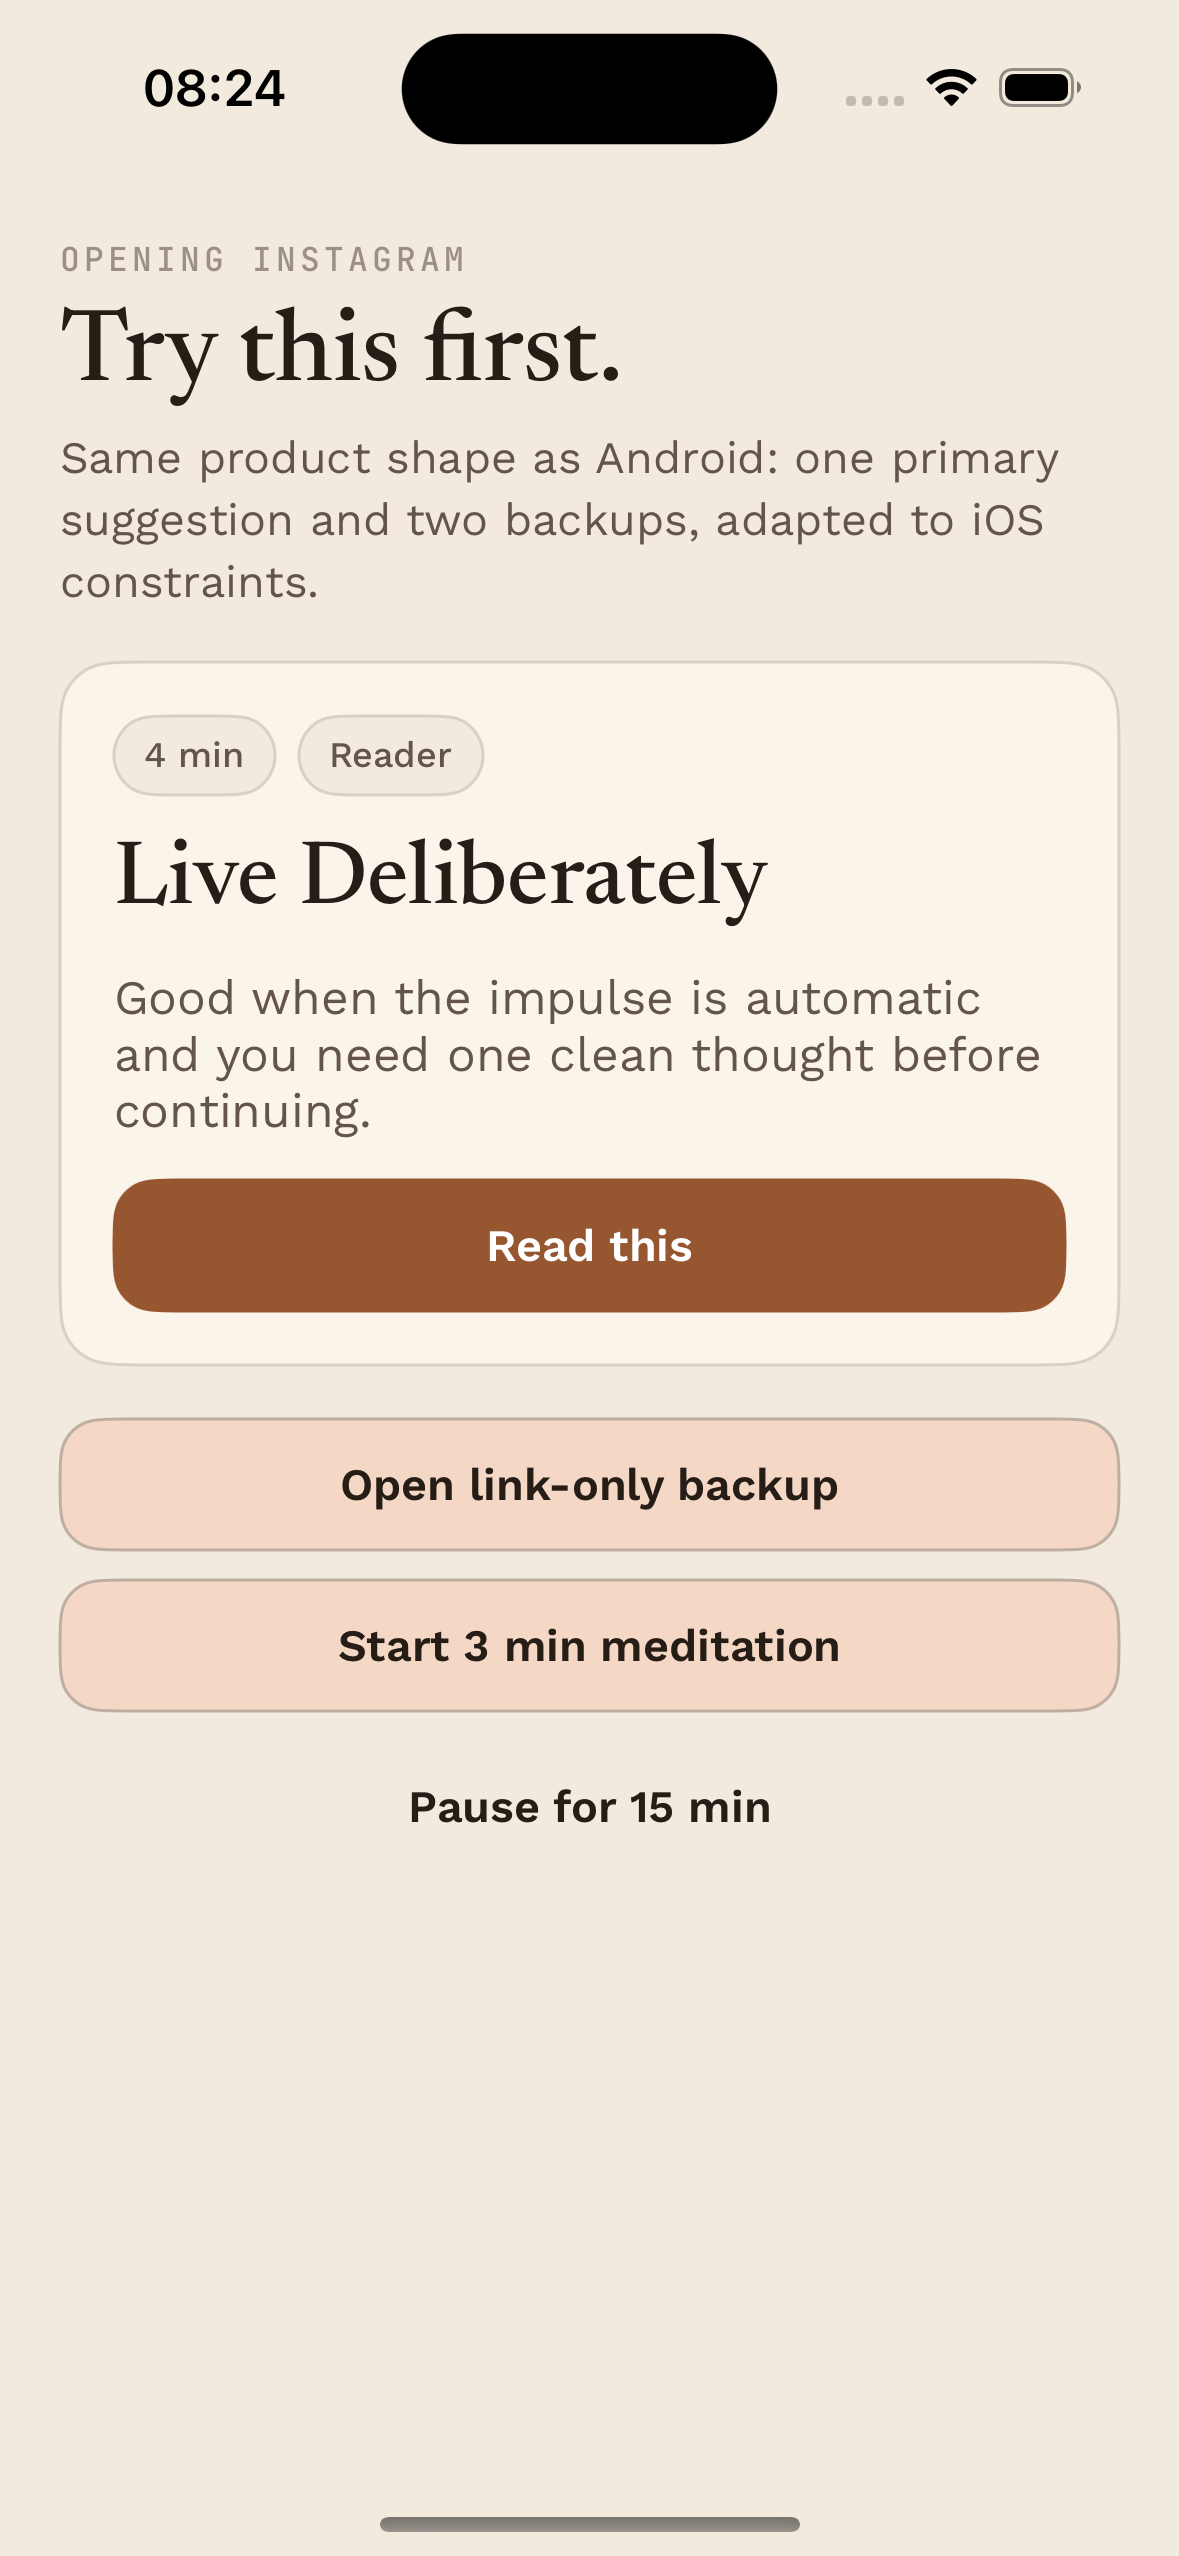
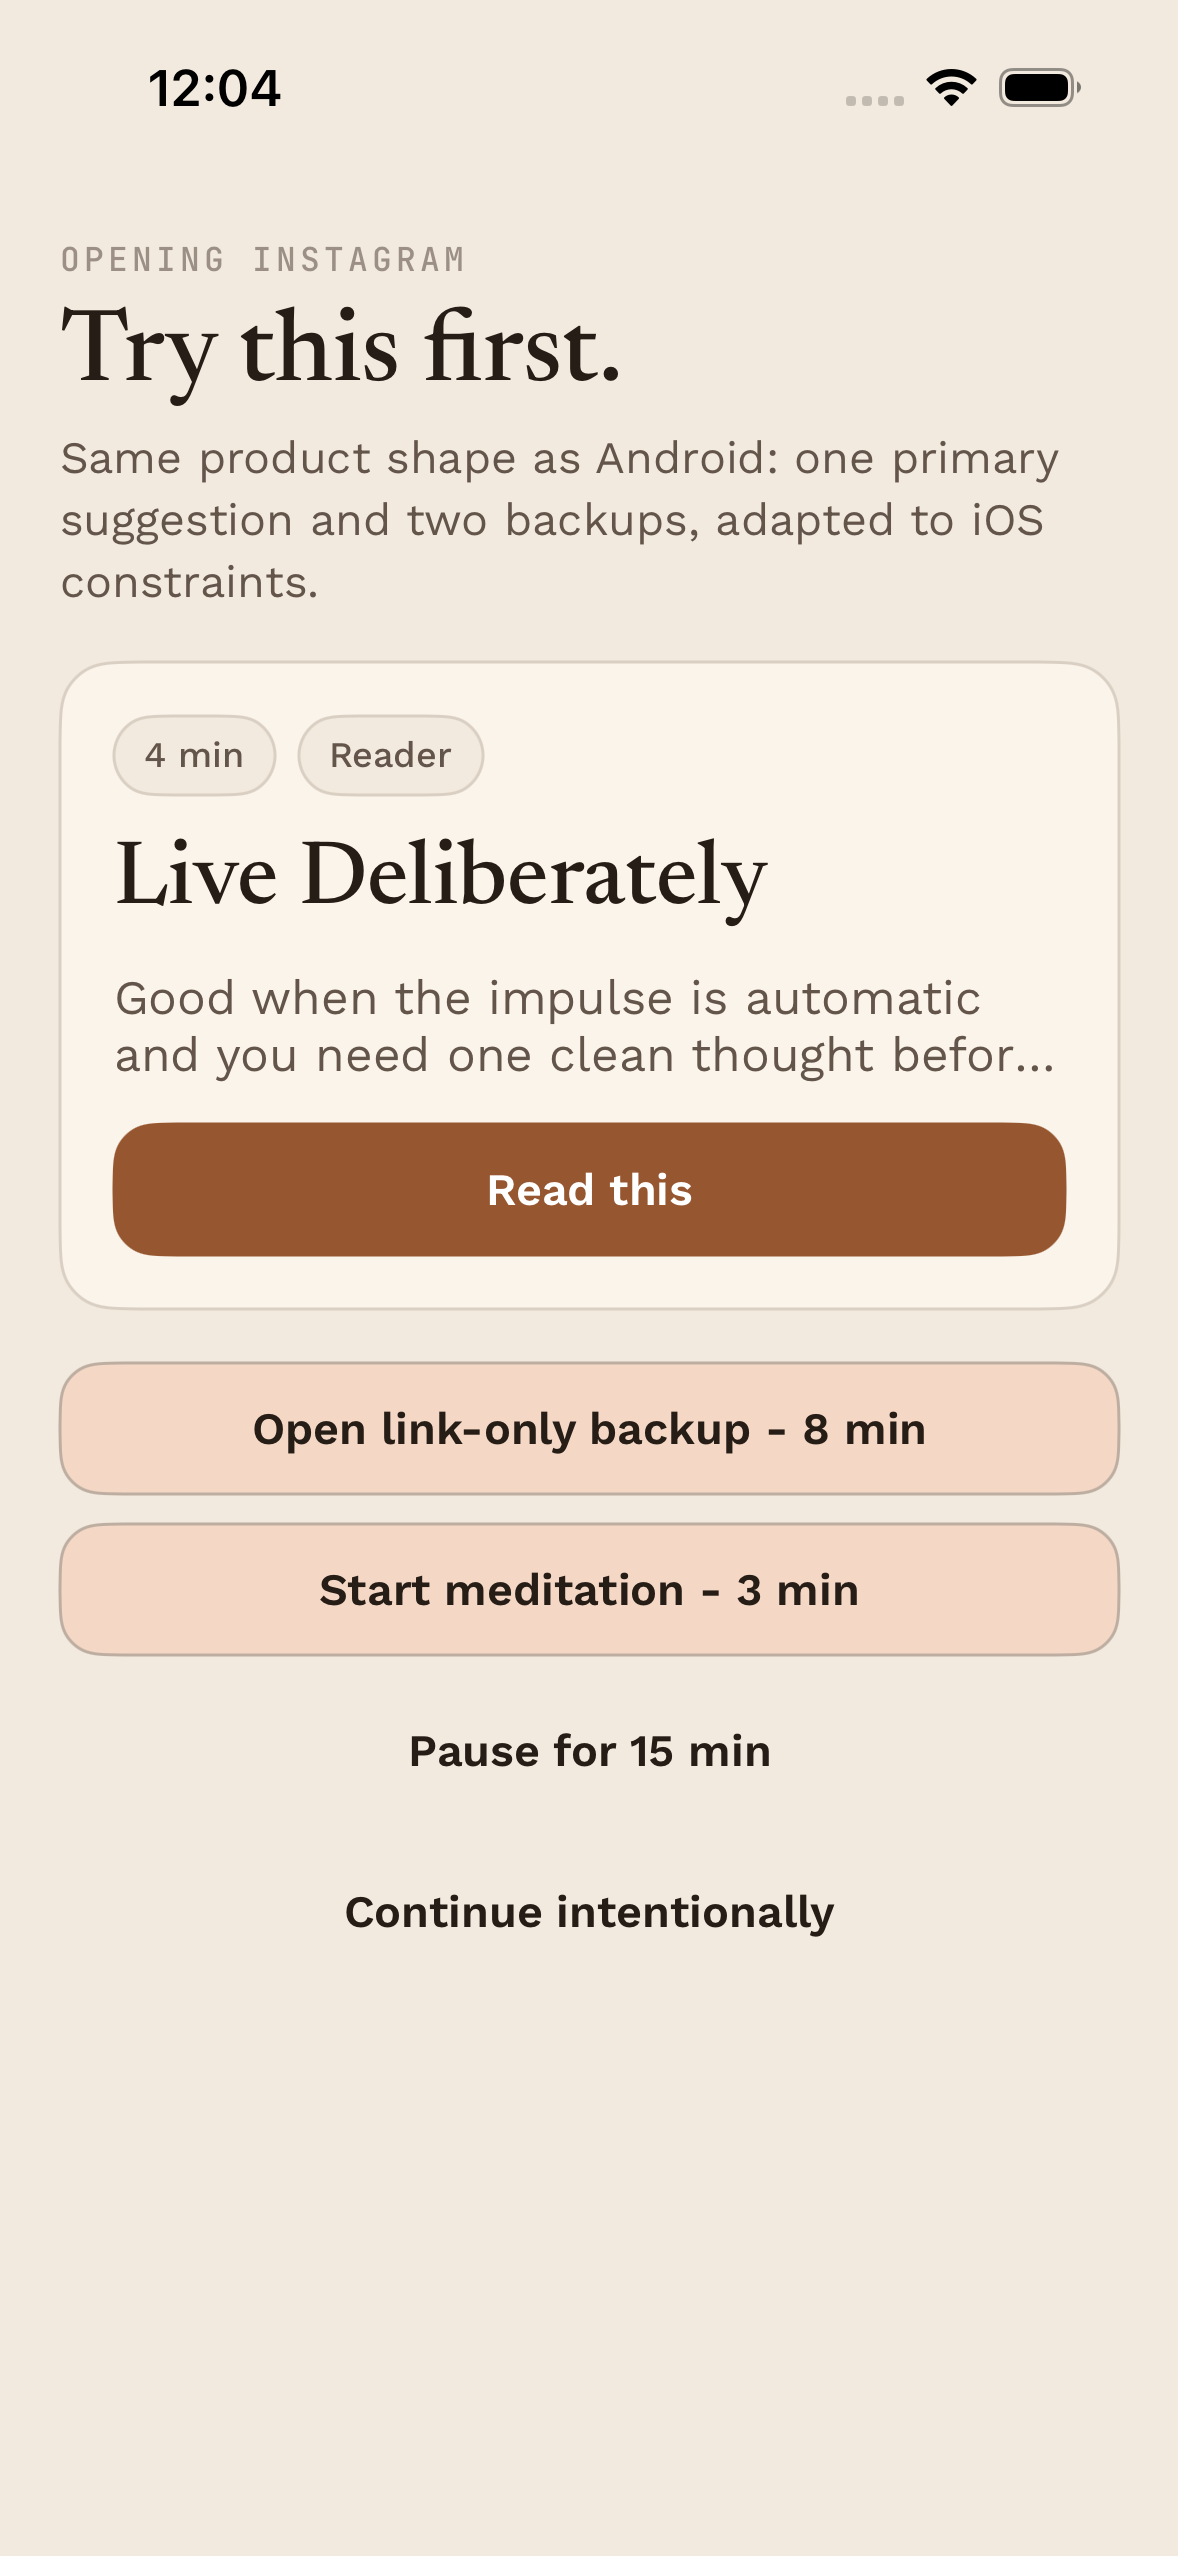
Address iOS slice 12.1 Pro review

diff --git a/ios/QualityAlternativeUITests/QualityAlternativeVisualQaTests.swift b/ios/QualityAlternativeUITests/QualityAlternativeVisualQaTests.swift
@@ -1,5 +1,6 @@
 import XCTest
 
+@MainActor
 final class QualityAlternativeVisualQaTests: XCTestCase {
     override func setUpWithError() throws {
         continueAfterFailure = false
@@ -8,18 +9,23 @@ final class QualityAlternativeVisualQaTests: XCTestCase {
     func testSlice12VisualParityScreens() throws {
         capture(route: "home", name: "01_home_light")
         capture(route: "library", name: "02_library_light")
-        capture(route: "intervention", name: "03_intervention_light")
+        capture(route: "intervention", name: "03_intervention_light", verifyInterventionActions: true)
         capture(route: "reader", name: "04_reader_light")
         capture(route: "handoff", name: "05_handoff_light")
         capture(route: "meditation", name: "06_meditation_light")
         capture(route: "progress", name: "07_progress_light")
         capture(route: "settings", name: "08_settings_light")
-        capture(route: "intervention", name: "09_intervention_dark", dark: true)
+        capture(route: "intervention", name: "09_intervention_dark", dark: true, verifyInterventionActions: true)
         capture(route: "reader", name: "10_reader_dark", dark: true)
         capture(route: "meditation", name: "11_meditation_dark", dark: true)
     }
 
-    private func capture(route: String, name: String, dark: Bool = false) {
+    private func capture(
+        route: String,
+        name: String,
+        dark: Bool = false,
+        verifyInterventionActions: Bool = false
+    ) {
         let app = XCUIApplication()
         app.launchArguments = ["--qa-route", route]
         if dark {
@@ -29,6 +35,9 @@ final class QualityAlternativeVisualQaTests: XCTestCase {
 
         let expectedScreen = route == "handoff" ? "handoff-screen" : "\(route)-screen"
         XCTAssertTrue(app.descendants(matching: .any)[expectedScreen].waitForExistence(timeout: 6))
+        if verifyInterventionActions {
+            assertInterventionActionSet(in: app)
+        }
 
         let attachment = XCTAttachment(screenshot: XCUIScreen.main.screenshot())
         attachment.name = name
@@ -36,5 +45,20 @@ final class QualityAlternativeVisualQaTests: XCTestCase {
         add(attachment)
 
         app.terminate()
+    }
+
+    private func assertInterventionActionSet(in app: XCUIApplication) {
+        XCTAssertTrue(app.buttons["Read this"].exists)
+        XCTAssertTrue(app.buttons["Open link-only backup - 8 min"].exists)
+        XCTAssertTrue(app.buttons["Start meditation - 3 min"].exists)
+        XCTAssertTrue(app.buttons["Pause for 15 min"].exists)
+        XCTAssertTrue(app.buttons["Continue intentionally"].exists)
+
+        let actions = app.descendants(matching: .any)
+        XCTAssertTrue(actions["backup-action-psyche-boredom"].exists)
+        XCTAssertTrue(actions["backup-action-meditation-3m"].exists)
+        XCTAssertFalse(actions["backup-action-naturalist-notices"].exists)
+        XCTAssertTrue(actions["pause-action"].exists)
+        XCTAssertTrue(actions["continue-intentionally-action"].exists)
     }
 }

diff --git a/ios/QualityAlternative/Screens.swift b/ios/QualityAlternative/Screens.swift
@@ -73,6 +73,7 @@ struct InterventionScreen: View {
     let onOpenLink: () -> Void
     let onMeditate: () -> Void
     let onPause: () -> Void
+    let onContinue: () -> Void
 
     var body: some View {
         QAScreen(accessibilityIdentifier: "intervention-screen") {
@@ -100,13 +101,52 @@ struct InterventionScreen: View {
                 }
 
                 VStack(spacing: 10) {
-                    QAButton(title: "Open link-only backup", style: .secondary, action: onOpenLink)
-                    QAButton(title: "Start 3 min meditation", style: .secondary, action: onMeditate)
-                    QAButton(title: "Pause for 15 min", style: .quiet, action: onPause)
+                    ForEach(session.backups) { backup in
+                        QAButton(
+                            title: backupActionTitle(for: backup),
+                            style: .secondary,
+                            accessibilityIdentifier: "backup-action-\(backup.id)",
+                            action: backupAction(for: backup)
+                        )
+                    }
+                    QAButton(
+                        title: "Pause for 15 min",
+                        style: .quiet,
+                        accessibilityIdentifier: "pause-action",
+                        action: onPause
+                    )
+                    QAButton(
+                        title: "Continue intentionally",
+                        style: .quiet,
+                        accessibilityIdentifier: "continue-intentionally-action",
+                        action: onContinue
+                    )
                 }
                 Spacer(minLength: 0)
             }
             .padding(20)
+        }
+    }
+
+    private func backupActionTitle(for item: QAContentItem) -> String {
+        switch item.renderMode {
+        case .inAppReader:
+            "Read backup - \(item.duration)"
+        case .externalHandoff:
+            "Open link-only backup - \(item.duration)"
+        case .meditationTimer:
+            "Start meditation - \(item.duration)"
+        }
+    }
+
+    private func backupAction(for item: QAContentItem) -> () -> Void {
+        switch item.renderMode {
+        case .inAppReader:
+            onReadPrimary
+        case .externalHandoff:
+            onOpenLink
+        case .meditationTimer:
+            onMeditate
         }
     }
 }

diff --git a/ios/QualityAlternative/DesignSystem.swift b/ios/QualityAlternative/DesignSystem.swift
@@ -104,8 +104,12 @@ struct QAScreen<Content: View>: View {
         ZStack {
             tokens.colors.background.ignoresSafeArea()
             content
+            Color.clear
+                .frame(width: 1, height: 1)
+                .accessibilityElement()
+                .accessibilityLabel(accessibilityIdentifier)
+                .accessibilityIdentifier(accessibilityIdentifier)
         }
-        .accessibilityIdentifier(accessibilityIdentifier)
     }
 }
 
@@ -133,12 +137,25 @@ struct QAButton: View {
     @Environment(\.qaTokens) private var tokens
     let title: String
     let style: Style
+    let accessibilityIdentifier: String?
     let action: () -> Void
 
     enum Style {
         case primary
         case secondary
         case quiet
+    }
+
+    init(
+        title: String,
+        style: Style,
+        accessibilityIdentifier: String? = nil,
+        action: @escaping () -> Void
+    ) {
+        self.title = title
+        self.style = style
+        self.accessibilityIdentifier = accessibilityIdentifier
+        self.action = action
     }
 
     var body: some View {
@@ -156,6 +173,9 @@ struct QAButton: View {
                 )
         }
         .buttonStyle(.plain)
+        .accessibilityElement(children: .ignore)
+        .accessibilityLabel(title)
+        .accessibilityIdentifier(accessibilityIdentifier ?? title)
     }
 
     private var background: Color {

diff --git a/ios/QualityAlternativeTests/QualityAlternativeDesignTests.swift b/ios/QualityAlternativeTests/QualityAlternativeDesignTests.swift
@@ -15,6 +15,23 @@ final class QualityAlternativeDesignTests: XCTestCase {
         XCTAssertEqual(Set(session.backups.map(\.renderMode)), [.externalHandoff, .meditationTimer])
     }
 
+    func testReplacementSessionCapsBackupsAtTwo() {
+        let session = QAReplacementSession(
+            triggerLabel: "Fixture",
+            primary: QASampleData.readerItem,
+            backups: [
+                QASampleData.linkOnlyItem,
+                QASampleData.meditationItem,
+                QASampleData.library[3]
+            ]
+        )
+
+        XCTAssertEqual(session.backups.map(\.id), [
+            QASampleData.linkOnlyItem.id,
+            QASampleData.meditationItem.id
+        ])
+    }
+
     func testLibraryIncludesRenderableLinkOnlyAndMeditationItems() {
         let modes = Set(QASampleData.library.map(\.renderMode))
 

diff --git a/ios/QualityAlternative/AppRootView.swift b/ios/QualityAlternative/AppRootView.swift
@@ -43,7 +43,8 @@ private struct RootContent: View {
                 onReadPrimary: { route = .reader },
                 onOpenLink: { route = .handoff },
                 onMeditate: { route = .meditation },
-                onPause: { route = .home }
+                onPause: { route = .home },
+                onContinue: { route = .home }
             )
         case .reader:
             ReaderScreen(item: QASampleData.readerItem, onDone: { route = .progress })

diff --git a/ios/QualityAlternative/Models.swift b/ios/QualityAlternative/Models.swift
@@ -27,6 +27,12 @@ struct QAReplacementSession: Equatable {
     let triggerLabel: String
     let primary: QAContentItem
     let backups: [QAContentItem]
+
+    init(triggerLabel: String, primary: QAContentItem, backups: [QAContentItem]) {
+        self.triggerLabel = triggerLabel
+        self.primary = primary
+        self.backups = Array(backups.prefix(2))
+    }
 }
 
 enum QARoute: String {

diff --git a/docs/SPRINT_12_IOS_IMPLEMENTATION.md b/docs/SPRINT_12_IOS_IMPLEMENTATION.md
@@ -1,6 +1,6 @@
 # Sprint 12 iOS Implementation
 
-Status: `slice_12_1_gpt_pro_review_pending`
+Status: `slice_12_1_gpt_pro_followup_pending`
 Branch: `codex/sprint12-ios-implementation`
 
 ## Goal
@@ -59,9 +59,11 @@ Completed on 2026-04-24:
 - `git diff --check`: PASS
 - `xcodebuild build`: PASS
 - `xcodebuild test`: PASS
-- Unit tests: 3 passed, 0 failed
+- Unit tests: 4 passed, 0 failed
 - UI visual QA tests: 1 passed, 0 failed
 - Manual simulator screenshot pass: PASS on `QA iPhone 16 Sprint12`
+- Follow-up validation bundle: `output/ios_sprint12_slice12_1_fix_validation_20260424_120330/QualityAlternative.xcresult`
+- Follow-up validation log: `output/ios_sprint12_slice12_1_fix_validation_20260424_120330/xcodebuild_test.log`
 
 Visual QA artifacts:
 
@@ -72,9 +74,20 @@ Visual QA artifacts:
 GPT Pro review:
 
 - Lane: `https://chatgpt.com/c/69eb3a1e-5f60-8386-bf9a-7588993d741e`
+- Harvested verdict: `REVISE`
 - Prompt: `PRO_REVIEW_PROMPT_20260424_113738.md`
 - Bundle: `QUALITY_ALTERNATIVE_IOS_REVIEW_BUNDLE_20260424_113738.zip`
 - Expected harvest path: `PRO_REVIEW_OUTPUT_20260424_113738/`
+
+Follow-up fixes applied:
+
+- Added an explicit "Continue intentionally" intervention action for the iOS-safe conscious-continuation path.
+- Render backup actions from `QAReplacementSession.backups` instead of hard-coded buttons.
+- Capped `QAReplacementSession.backups` to two items in the model.
+- Added unit coverage for the two-backup cap.
+- Added UI assertions for primary, two backups, pause, continue, and absence of a third backup.
+- Moved screen accessibility markers off the root container so action identifiers remain queryable.
+- Regenerated the Slice 12.1 screenshot set under `docs/visual-qa/sprint12-ios-slice12-1/` so bundle paths match the documented paths.
 
 Observed scope state:
 
